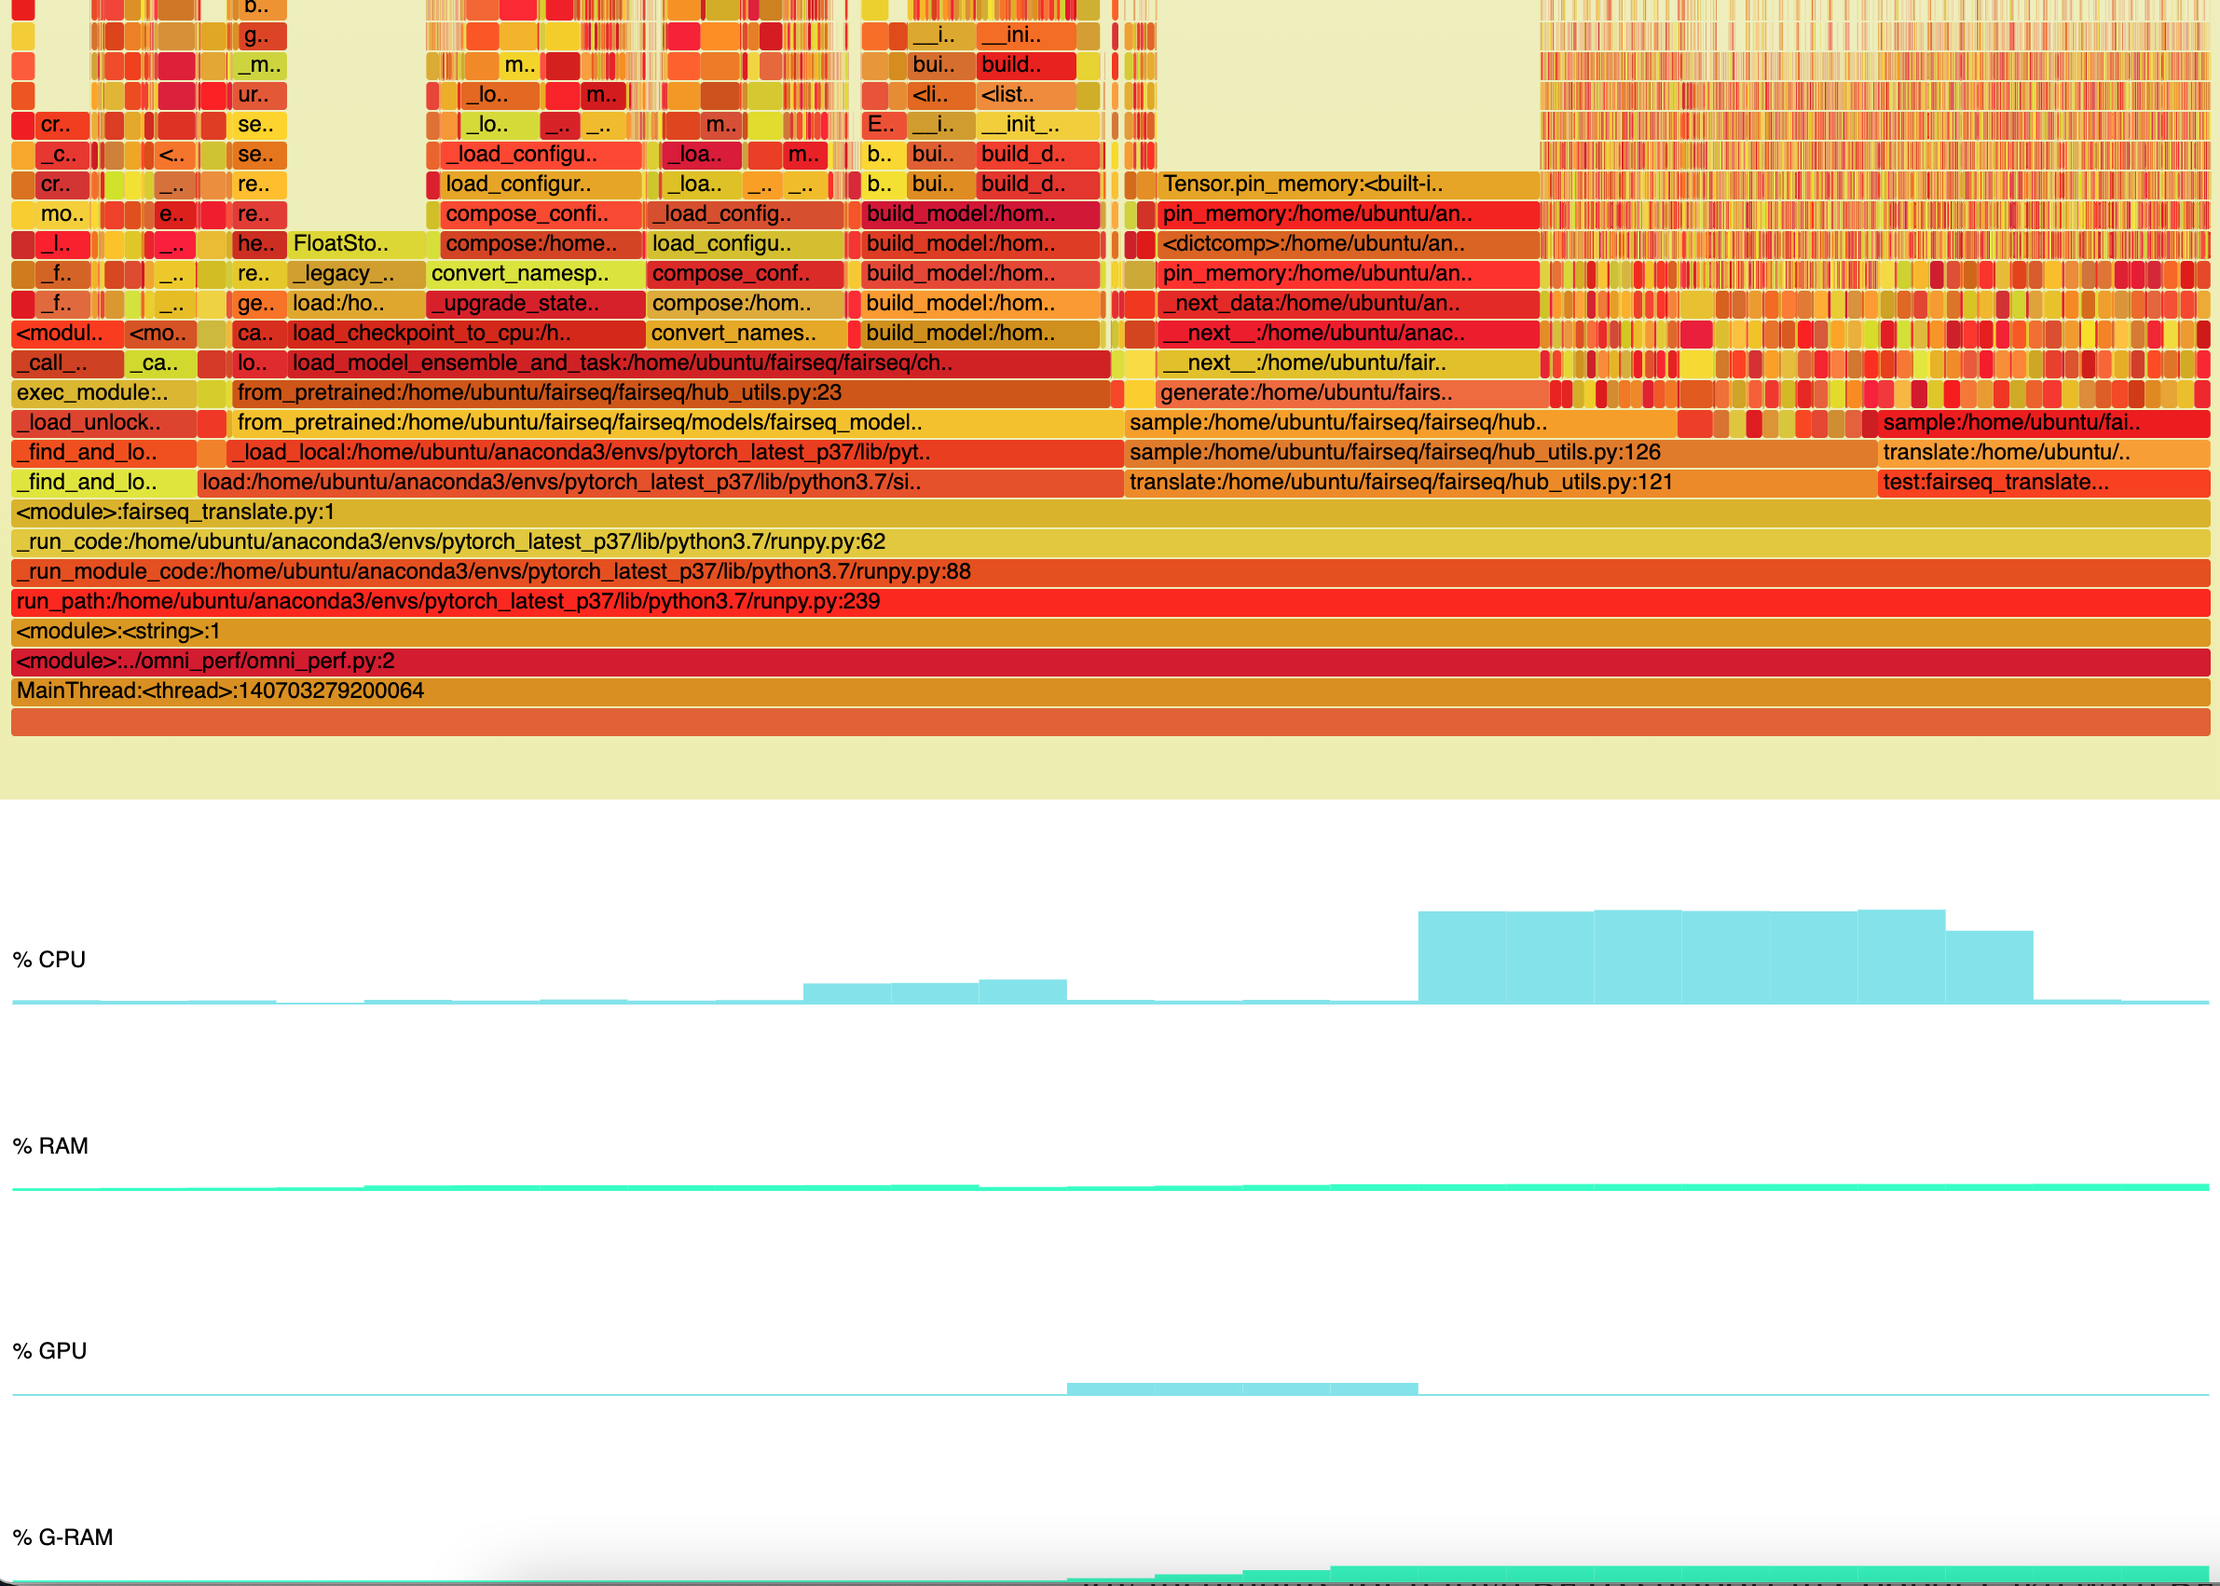
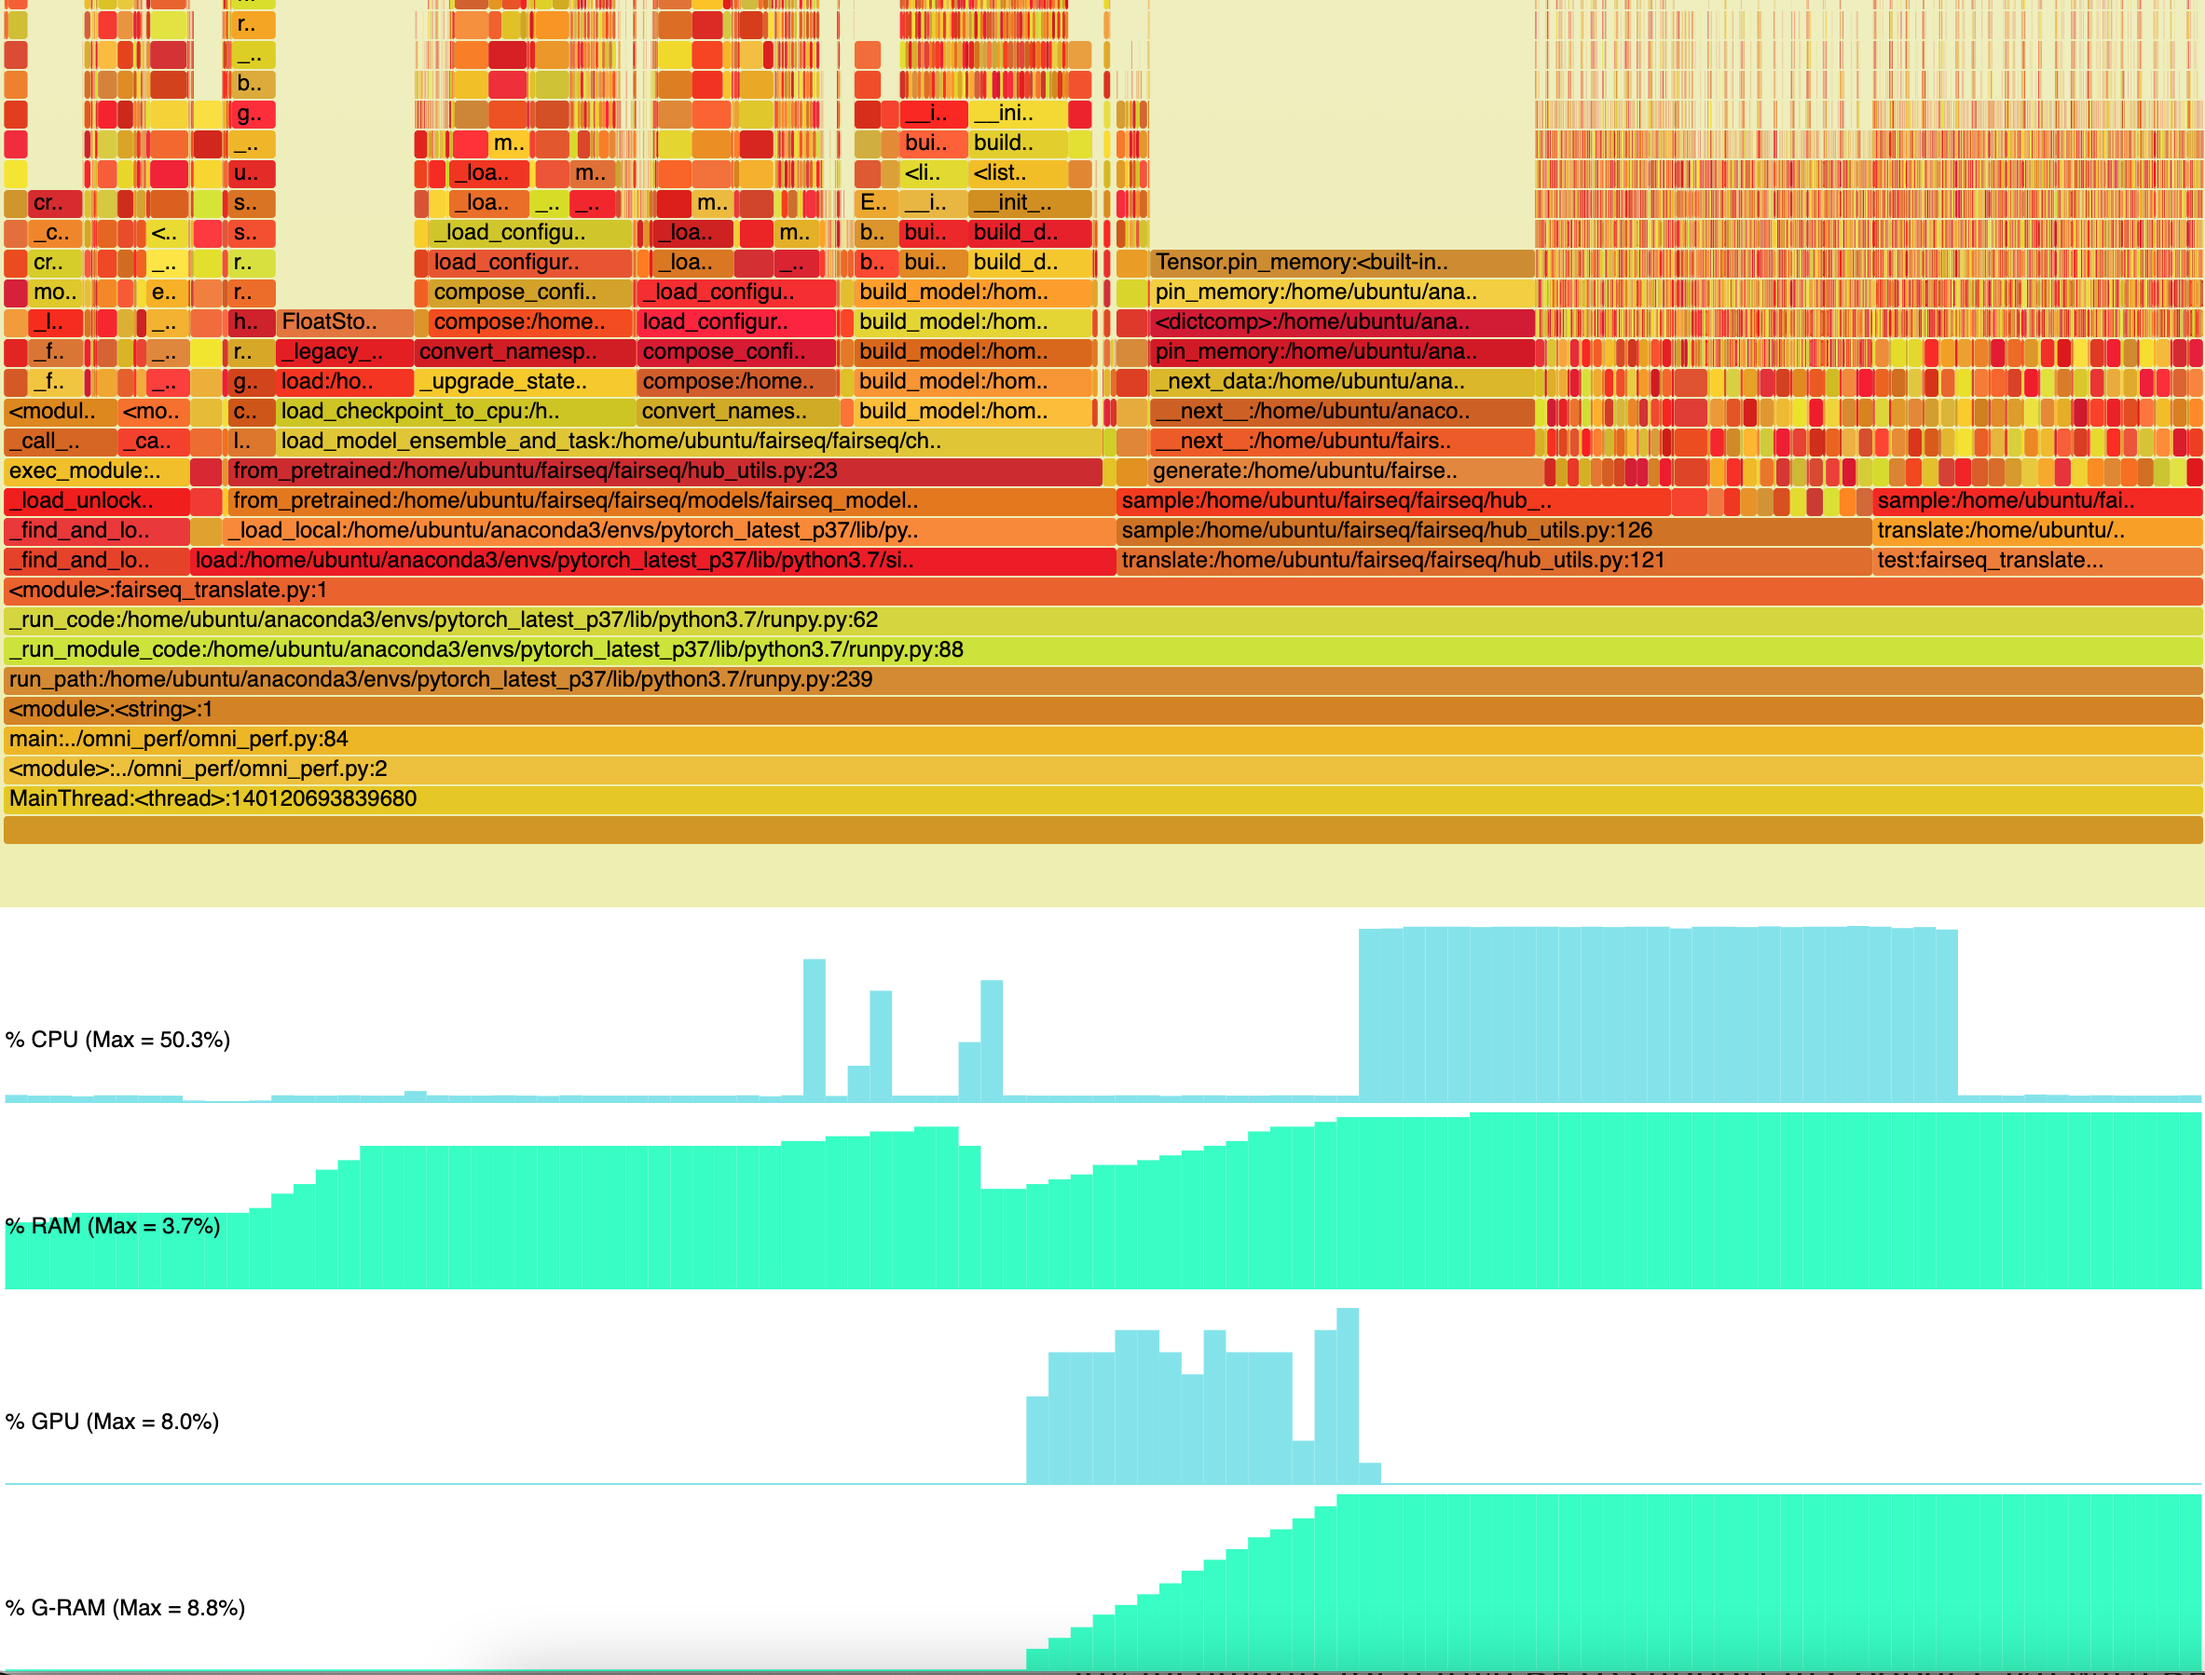
Add vertical scaling for system activities

diff --git a/omni_perf.py b/omni_perf.py
@@ -22,28 +22,30 @@ def create_svg(svg_name, info, label1, label2, WIDTH=1200, HEIGHT=200):
     x_offset = WIDTH * 0.009
     x_scale = (WIDTH - 2 * x_offset) / info[-1][0]
     y_scale = HEIGHT / 200
+    cpu_max = max([item[1] for item in info])
+    mem_max = max([item[2] for item in info])
     for i in range(1, len(info)):
         prev = info[i - 1]
         line = info[i]
         x0 = x_scale * prev[0] + x_offset
         x1 = x_scale * line[0] + x_offset
         # CPU
-        y = y_scale * prev[1]
+        y = 0.475 * HEIGHT / cpu_max * prev[1]
         y_offset = HEIGHT / 2
         r = draw.Rectangle(x0, 0 + y_offset, x1 - x0, y, fill='#83e4eb')
         r.appendTitle(f'{label1}: {prev[1]:.1f}')
         d_cpu.append(r)
         # MEM
         y_offset = HEIGHT
-        y = y_scale * prev[2] * 1
+        y = 0.475 * HEIGHT / mem_max * prev[2]
         r = draw.Rectangle(x0, 0, x1 - x0, y, fill='#33ffc4')
         r.appendTitle(f'{label2}: {prev[2]:.1f}') 
         d_cpu.append(r)
         
     d_cpu.append(draw.Rectangle(x_scale * info[0][0] + x_offset, 0 + HEIGHT/2, WIDTH - 2*x_offset, 1, fill='#83e4eb'))
-    d_cpu.append(draw.Text(label1, 24, x_offset, HEIGHT/2 + 20, fill='white'))
+    d_cpu.append(draw.Text(label1 + f' (Max = {cpu_max:.1f}%)', 32, x_offset, HEIGHT/2 + 30, fill='white'))
     d_cpu.append(draw.Rectangle(x_scale * info[0][0] + x_offset, 0, WIDTH - 2*x_offset, 1, fill='#33ffc4'))
-    d_cpu.append(draw.Text(label2, 24, x_offset, 0 + 20, fill='white'))
+    d_cpu.append(draw.Text(label2 + f' (Max = {mem_max:.1f}%)', 32, x_offset, 0 + 30, fill='white'))
 
     d_cpu.saveSvg(svg_name)
 
@@ -134,7 +136,7 @@ def main():
 
     doc = ss.Document()
     layout = ss.VBoxLayout()
-    layout.setSpacing(10)
+    layout.setSpacing(5)
 
     layout.addSVG(outname + '_cs.svg')
     layout.addSVG(outname + '_cpu.svg')
